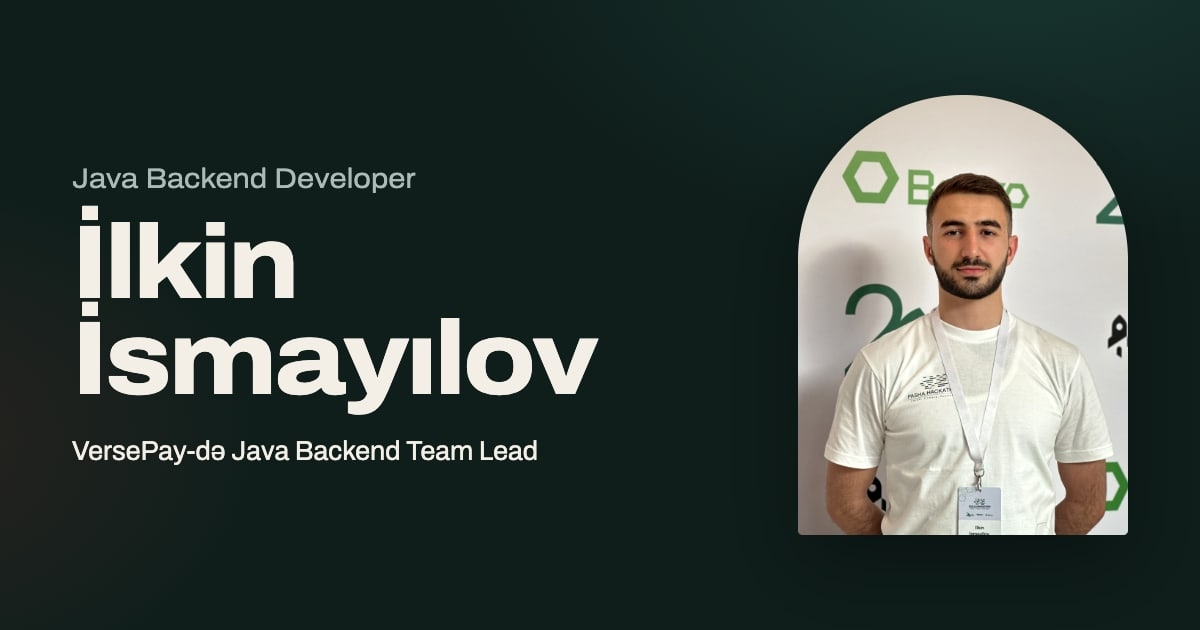
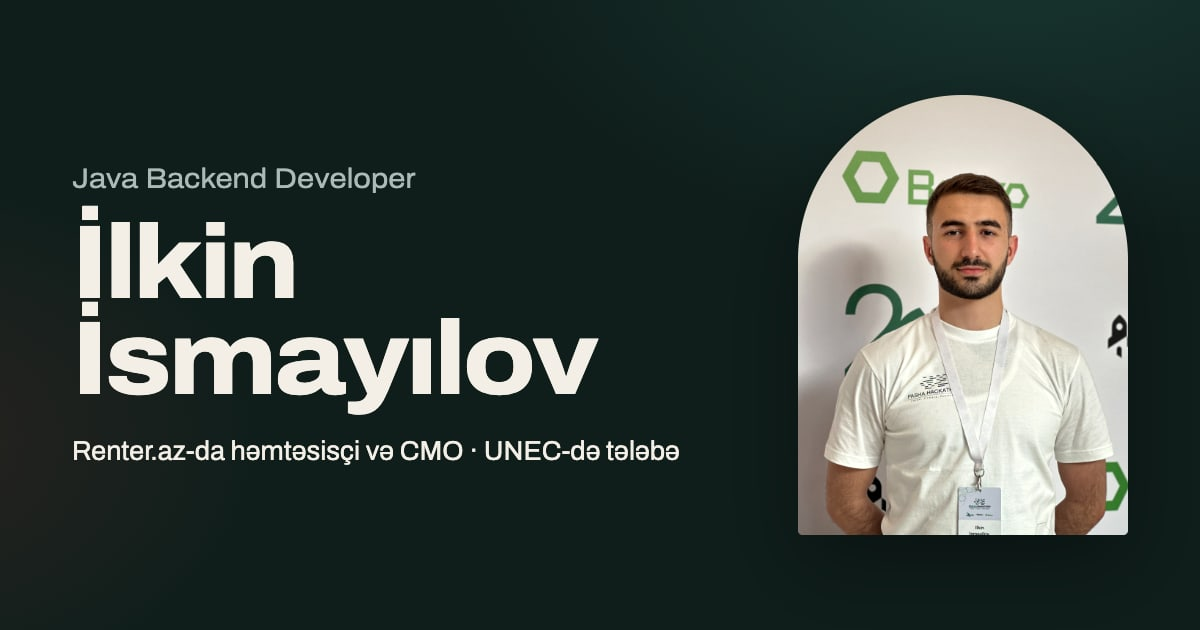
feat(about): new About, Experience and Education content; VersePay is past, Renter.az is Co-founder & CMO
- About: intro (lead + muted paragraph) with a status card (availability, contact link, focus / now / before as <dl>)
- Chapter "Experience": VersePay (past) and Renter.az (current) cards, three numbers for VersePay
- Chapter "Education & achievements": new text and four number cards; "Hackathons" chapter unchanged
- Timeline: Renter.az first (Co-founder & CMO, current, accent dot), VersePay Dec 2025 – Oct 2026;
  the section is now "Career" (was "Experience", which the new chapter uses)
- Hero intro, status board, meta and JSON-LD descriptions no longer show VersePay as the current job; home OG images re-rendered
- Cards are solid surfaces (glass budget unchanged); contrast stops added for the new parts

Changed region(s): [[0.0617, 0.6937, 0.5858, 0.754]]

diff --git a/src/styles/global.css b/src/styles/global.css
@@ -266,12 +266,45 @@ a.row:hover .w-title,a.row:focus-visible .w-title{font-variation-settings:"wdth"
 }
 
 /* ---------- About ---------- */
+.about-intro{display:grid;grid-template-columns:minmax(0,1.4fr) minmax(0,1fr);gap:clamp(2rem,6vw,6rem);align-items:start;margin-bottom:clamp(3rem,8vh,5rem)}
+.about-lead{margin:0 0 1.2rem;max-width:40rem;font-family:var(--display);font-weight:600;font-variation-settings:"wdth" 104;font-size:clamp(1.35rem,1.1rem + 1vw,2rem);line-height:1.3}
+.about-sub{margin:0;max-width:36rem;color:var(--muted);font-size:clamp(1.02rem,1rem + .2vw,1.15rem)}
+.status-card{border-radius:var(--r-m);padding:1rem 1.25rem .5rem;max-width:36rem}
+.avail{padding:1rem 1.1rem;border-radius:var(--r-s);background:var(--accent-soft);border:1px solid var(--glass-border)}
+.avail-title{margin:0;display:flex;align-items:baseline;gap:.6rem;font-weight:650}
+.dot{flex:none;width:.6rem;height:.6rem;border-radius:50%;background:var(--accent)}
+.avail-text{margin:.35rem 0 1rem}
+.status-list{margin:.5rem 0 0}
+.status-list div{display:grid;grid-template-columns:6rem minmax(0,1fr);gap:.2rem 1rem;padding:.75rem 0;border-bottom:1px solid var(--rule)}
+.status-list div:last-child{border-bottom:0}
+.status-list dt{color:var(--muted);font-size:.92rem}
+.status-list dd{margin:0;font-weight:500}
+@media (max-width:820px){.about-intro{grid-template-columns:1fr}}
+@media (max-width:420px){.status-list div{grid-template-columns:1fr}}
 .about-grid{display:grid;grid-template-columns:minmax(0,1.4fr) minmax(0,1fr);gap:clamp(2rem,6vw,6rem);align-items:start}
 .about-text .chapter{margin-bottom:clamp(2.5rem,6vh,4rem)}
 .about-text .chapter p{margin:0 0 1.2rem;max-width:36rem;font-size:clamp(1.08rem,1rem + .35vw,1.25rem)}
 .about-text .chapter p:last-of-type{margin-bottom:0}
 .about-text .chapter h3{margin:0 0 .6rem;font-family:var(--display);font-weight:650;font-size:1.35rem;font-variation-settings:"wdth" 108}
 @media (max-width:820px){.about-grid{grid-template-columns:1fr}}
+/* Chapter cards: solid surfaces (no backdrop-filter), so they stay out of the glass budget */
+.about-text .chapter .ch-sub{margin:-.3rem 0 1.2rem;color:var(--muted);font-size:1rem}
+.roles{list-style:none;margin:0;padding:0;display:grid;gap:1rem;max-width:40rem}
+.role{padding:1.2rem 1.25rem;border-radius:var(--r-m);background:var(--glass-strong);border:1px solid var(--glass-border)}
+.role-head{display:flex;flex-wrap:wrap;justify-content:space-between;align-items:baseline;gap:.4rem 1rem}
+.role h4{margin:0;font-family:var(--display);font-weight:650;font-size:1.15rem;font-variation-settings:"wdth" 104}
+.role-badge{border:1px solid var(--rule);border-radius:999px;padding:.05rem .6rem;color:var(--muted);font-size:.8rem}
+.role-badge.current{background:var(--accent);border-color:var(--accent);color:var(--accent-ink);font-weight:600}
+.about-text .chapter .role p{margin:.6rem 0 0;font-size:1rem}
+.stats{list-style:none;margin:1rem 0 0;padding:0;display:grid;grid-template-columns:repeat(3,minmax(0,1fr));gap:.6rem}
+.stats li{padding:.75rem .85rem;border-radius:var(--r-s);background:var(--glass-hi);border:1px solid var(--glass-border)}
+.stats strong{display:block;color:var(--accent);font-family:var(--display);font-weight:700;font-size:1.5rem;line-height:1.1;font-variation-settings:"wdth" 108}
+.stats span{display:block;margin-top:.2rem;color:var(--muted);font-size:.86rem}
+.stats-4{grid-template-columns:repeat(2,minmax(0,1fr));max-width:40rem;margin-top:1.4rem}
+.stats-4 li{background:var(--glass-strong)}
+.stats-4 strong{font-size:2rem}
+.stats-4 .stat-title{color:var(--text);font-weight:600;font-size:.95rem}
+@media (max-width:560px){.stats,.stats-4{grid-template-columns:1fr}}
 .principles{margin:0;list-style:none;border-radius:var(--r-m);padding:1.5rem 1.5rem .3rem;max-width:36rem}
 .principles li{margin-bottom:1.3rem}
 .principles strong{display:block;font-family:var(--display);font-weight:650;font-size:1.2rem;font-variation-settings:"wdth" 108}
@@ -296,6 +329,9 @@ a.row:hover .w-title,a.row:focus-visible .w-title{font-variation-settings:"wdth"
 .timeline li{position:relative;display:grid;grid-template-columns:11rem minmax(0,1fr);gap:.4rem 2rem;padding:0 0 2.5rem}
 .timeline li::before{content:"";position:absolute;left:-2rem;top:.45rem;width:12px;height:12px;border-radius:50%;background:var(--bg);border:2px solid var(--muted);transition:background .3s,border-color .3s}
 .timeline li.reached::before{background:var(--accent);border-color:var(--accent)}
+/* The current role: accent dot from the start, not only once scrolled past */
+.timeline li.current::before{background:var(--accent);border-color:var(--accent)}
+.timeline li.current .tl-when{color:var(--accent);font-weight:600}
 .tl-when{color:var(--muted)}
 .tl-role{margin:0;font-family:var(--display);font-weight:600;font-size:1.35rem;line-height:1.2}
 .tl-org{color:var(--muted);font-weight:400}
@@ -325,7 +361,8 @@ a.row:hover .w-title,a.row:focus-visible .w-title{font-variation-settings:"wdth"
 .email:hover,.email:focus-visible{background-size:100% 3px}
 .contact-actions{display:flex;flex-wrap:wrap;gap:.75rem 1.5rem;align-items:center;position:relative}
 .btn-accent{background:var(--accent);color:var(--accent-ink);border:0;border-radius:999px;padding:.7rem 1.2rem;font-weight:600}
-.no-js .btn-accent{display:none}
+.a-btn{display:inline-block;text-decoration:none}
+.no-js button.btn-accent{display:none}
 .contact-links{display:flex;flex-wrap:wrap;gap:1.25rem;list-style:none;margin:0;padding:0}
 .colophon{display:flex;flex-wrap:wrap;justify-content:space-between;gap:1rem;color:var(--muted);font-size:.86rem;padding-top:2rem}
 .no-js .js-only{display:none}

diff --git a/src/i18n/ui.ts b/src/i18n/ui.ts
@@ -11,7 +11,7 @@ const en = {
   'nav.label': 'Sections',
   'nav.work': 'Work',
   'nav.about': 'About',
-  'nav.experience': 'Experience',
+  'nav.experience': 'Career',
   'nav.awards': 'Hackathons',
   'nav.contact': 'Contact',
   'search': 'Search',
@@ -64,9 +64,16 @@ const en = {
   'live.cold': 'may take a moment to load',
   'newTab': '(opens in a new tab)',
   'about.title': 'About me',
+  'status.label': 'Work status',
+  'status.contact': 'Get in touch',
+  'status.now': 'Currently',
+  'status.before': 'Before',
+  'role.current': 'current',
+  'role.past': 'past',
+  'role.stats': 'Results',
   'principles.label': 'How I work',
   'skills.title': 'Skills',
-  'exp.title': 'Experience',
+  'exp.title': 'Career',
   'exp.present': 'Present',
   'exp.org': 'at {org}',
   'awards.title': 'Hackathons & awards',
@@ -111,7 +118,7 @@ const az: Record<Key, string> = {
   'nav.label': 'Bölmələr',
   'nav.work': 'İşlər',
   'nav.about': 'Haqqımda',
-  'nav.experience': 'Təcrübə',
+  'nav.experience': 'Karyera',
   'nav.awards': 'Hakatonlar',
   'nav.contact': 'Əlaqə',
   'search': 'Axtar',
@@ -164,9 +171,16 @@ const az: Record<Key, string> = {
   'live.cold': 'açılması bir az vaxt ala bilər',
   'newTab': '(yeni vərəqdə açılır)',
   'about.title': 'Haqqımda',
+  'status.label': 'İş statusu',
+  'status.contact': 'Əlaqə saxla',
+  'status.now': 'Hazırda',
+  'status.before': 'Əvvəl',
+  'role.current': 'hazırda',
+  'role.past': 'keçmiş',
+  'role.stats': 'Nəticələr',
   'principles.label': 'Necə işləyirəm',
   'skills.title': 'Bacarıqlar',
-  'exp.title': 'Təcrübə',
+  'exp.title': 'Karyera',
   'exp.present': 'hazırda',
   'exp.org': '{org}',
   'awards.title': 'Hakatonlar və mükafatlar',

diff --git a/src/content.config.ts b/src/content.config.ts
@@ -39,8 +39,30 @@ const site = defineCollection({
 const about = defineCollection({
   loader: glob({ base: './src/content/about', pattern: '*.md' }),
   schema: z.object({
+      intro: z.strictObject({ lead: z.string(), text: z.string() }),
+      availability: z.strictObject({ title: z.string(), text: z.string() }),
+      status: z.strictObject({ focus: z.string(), now: z.string(), before: z.string() }),
+      // Each chapter has text and/or cards; its photo becomes the page background
       chapters: z
-        .array(z.object({ title: z.string(), text: z.array(z.string()).min(1), background: z.string() }))
+        .array(
+          z.strictObject({
+            title: z.string(),
+            subtitle: z.string().optional(),
+            text: z.array(z.string()).default([]),
+            roles: z
+              .array(
+                z.strictObject({
+                  title: z.string(),
+                  current: z.boolean().default(false),
+                  text: z.string(),
+                  stats: z.array(z.strictObject({ value: z.string(), label: z.string() })).default([]),
+                }),
+              )
+              .default([]),
+            cards: z.array(z.strictObject({ value: z.string(), title: z.string(), text: z.string() })).default([]),
+            background: z.string(),
+          }),
+        )
         .length(3),
       principles: z.array(z.object({ title: z.string(), text: z.string() })).min(1),
       // Enhancement 5: exactly the CV's skill groups and wording; no levels

diff --git a/tests/a11y.spec.ts b/tests/a11y.spec.ts
@@ -69,10 +69,10 @@ test.describe('keyboard only', () => {
     await page.keyboard.press('Escape');
     await expect(page.locator('#workList a[data-case="yolcu"]')).toBeFocused();
 
-    // palette: arrows + Enter run a command (go to Experience)
+    // palette: arrows + Enter run a command (go to Career)
     await page.keyboard.press('Control+k');
     await expect(page.locator('#palInput')).toBeFocused();
-    await page.keyboard.type('experience');
+    await page.keyboard.type('career');
     await page.keyboard.press('Enter');
     await expect(page.locator('#exp-h')).toBeFocused();
 
@@ -116,8 +116,8 @@ test.describe('keyboard only, Azerbaijani', () => {
     await page.keyboard.press('Escape');
     await expect(page.locator('#workList a[data-case="abadland-qarabag"]')).toBeFocused();
     await page.keyboard.press('/');
-    await page.keyboard.type('təcrübə');
-    await expect(page.locator('.pal-opt[aria-selected="true"]')).toContainText('Təcrübə');
+    await page.keyboard.type('karyera');
+    await expect(page.locator('.pal-opt[aria-selected="true"]')).toContainText('Karyera');
     await page.keyboard.press('Enter');
     await expect(page.locator('#exp-h')).toBeFocused();
     await page.keyboard.press('Control+k');

diff --git a/TRANSLATION_REVIEW.md b/TRANSLATION_REVIEW.md
@@ -17,12 +17,15 @@ UI strings live in `src/i18n/ui.ts`; content in `src/content/*/az*`.
 ## Content passages (not in the AZ CV word for word)
 
 - Photo captions: "Qarabağ Hakatonu 2026", "TransportTech Hakatonu 2026" (from the AZ CV event names); the others are names and years.
-- Hero intro: "Erkən mərhələli FinTech startapında 6 backend developerdən ibarət komandaya rəhbərlik edirəm. Spring Boot ilə təhlükəsiz və testlərlə əhatə olunmuş servislər qururam. Orta cavab müddəti 1000 ms-dən 14 ms-ə endi, 75 endpoint üzrə ~95% test əhatəsi var."
-- Meta description, JSON-LD description, hero portrait alt text.
-- Status board: "VersePay-də Java Backend Team Lead", "Ödənişlər, Spring Boot, performans və testlər", "Bank və ya FinTech backend sahəsində ilk korporativ rol axtarıram".
+- Hero intro (2026-10-26, after leaving VersePay): "Java və Spring Boot ilə backend sistemlər qururam. VersePay-də 6 nəfərlik backend komandasına rəhbərlik etdim: orta cavab müddəti 1000 ms-dən 14 ms-ə endi, 75 endpoint üzrə ~95% test əhatəsinə çatdıq." (first sentence is yours; the rest is the old intro in the past tense).
+- Meta description (2026-10-26): "Bakıda Java backend developer. Spring Boot ilə sürətli və testlərlə qorunan API-lər qururam. VersePay-də 6 nəfərlik backend komandasına rəhbərlik etmişəm, bank və FinTech sahəsində Java backend rolları axtarıram."
+- JSON-LD description (2026-10-26): "Java Backend Developer, Renter.az-ın həmtəsisçisi və Kompüter Mühəndisliyi tələbəsi."
+- Hero portrait alt text.
+- Status board (2026-10-26): "Renter.az-da həmtəsisçi və CMO · UNEC-də tələbə" and "Java, Spring Boot, API dizaynı, performans və testlər" (your wording from the new status card), "Bank və FinTech sahəsində Java backend rolları axtarıram" (shortened from your availability text).
 - Hero tag: "orta API cavab müddəti".
 - Work note: "Yeddi layihə, çoxməkanlı restoran sifariş platformasından brauzer oyununa qədər. Dördünün ətraflı təsviri var."
-- About chapter titles: "Nə qururam", "Necə öyrənirəm", "Hakatonlar və daha çoxu", and the chapter texts (built from AZ CV phrases).
+- About (2026-10-26): intro, status card, "Təcrübə" and "Təhsil və nailiyyətlər" chapters, cards and the Renter.az / VersePay timeline texts are **your own wording** (not translated). One sentence added by your decision: "…və 5 komanda layihəsinin tamamlanmasını təmin etmişəm" (AZ CV wording). Chapter "Hakatonlar və daha çoxu" unchanged.
+- UI labels added 2026-10-26: "İş statusu", "Əlaqə saxla", "Hazırda", "Əvvəl", "hazırda", "keçmiş", "Nəticələr"; the timeline section and its nav link are now "Karyera".
 - Principles: "Əvvəl ölç, sonra düzəlt", "Testlər kodla birlikdə gəlir", "Təhlükəsizlik ilk versiyanın bir hissəsidir", "Buraxılış adi iş olsun" and their sentences.
 - Project summaries for Yolçu, AbadLand, Space Shooter, Paygenix (shortened from CV lines); case-study sentences
   "Mənim payım: …", "Platforma milly-front.vercel.app ünvanında işləyir."
@@ -32,7 +35,7 @@ UI strings live in `src/i18n/ui.ts`; content in `src/content/*/az*`.
 
 ## UI strings (all of `az` in `src/i18n/ui.ts`)
 
-Navigation: İşlər, Haqqımda, Təcrübə, Hakatonlar, Əlaqə · Buttons: Axtar, Tema, E-poçtu kopyala, Bağla ·
+Navigation: İşlər, Haqqımda, Karyera, Hakatonlar, Əlaqə · Buttons: Axtar, Tema, E-poçtu kopyala, Bağla ·
 Filters: Hamısı, Backend, Hakatonlar, Frontend · Count: "Bütün 7 layihə göstərilir", "2 hakaton layihəsi göstərilir" ·
 Toasts: "E-poçt kopyalandı", "Açıq tema aktivdir", "Tünd tema aktivdir", "Status işığını tapdın." ·
 Palette: "Bölmə, layihə və ya əməliyyat axtarın", groups "Keçid", "Layihəni aç", "İşləri süz", "Əməliyyatlar" ·

diff --git a/src/content/about/az.md b/src/content/about/az.md
@@ -1,14 +1,37 @@
 ---
+intro:
+  lead: Java və Spring Boot ilə backend sistemlər qururam. Sürətli işləyən API-lər, testlərlə qorunan kod və sonradan böyüməyə hazır arxitektura məni ən çox maraqlandıran mövzulardır.
+  text: Komandaya rəhbərlik etmişəm, indi isə Renter.az-ın həmtəsisçisi kimi məhsula biznes tərəfdən də baxıram. Kodun arxasında hansı problemin dayandığını anlamaq mənim üçün kodun özü qədər vacibdir.
+availability:
+  title: İş və internship təkliflərinə açığam
+  text: "Bank və FinTech sahəsində Java backend rolları axtarıram: tam ştat və ya internship."
+status:
+  focus: Java, Spring Boot, API dizaynı, performans və testlər
+  now: Renter.az-da həmtəsisçi və CMO · UNEC-də tələbə
+  before: VersePay-də Java Backend Team Lead
 chapters:
-  - title: Nə qururam
-    text:
-      - İşimin çoxu interfeysin arxasındadır. Ödəniş linkləri, müştəri loyallığı və marketplace-lər üçün Java və Spring Boot servisləri qururam.
-      - VersePay-də 6 nəfərlik backend komandasına rəhbərlik edirəm, Jira-da sprint planlamasından code review və arxitektura qərarlarına qədər. Renter.az-da, ~100 müştərili canlı avtomobil icarəsi platformasında, həmtəsisçi kimi planlaşdırma, tapşırıq bölgüsü və koordinasiyanı idarə edirəm.
+  - title: Təcrübə
+    subtitle: Komanda, məhsul və rəqəmlər
+    roles:
+      - title: Java Backend Team Lead · VersePay
+        text: "6 nəfərlik backend komandasına rəhbərlik etdim. Ödəniş linkləri, müştəri loyallığı və marketplace servisləri üzərində işlədik: sprint planlamasından code review və arxitektura qərarlarına qədər."
+        stats:
+          - { value: 14 ms, label: "orta cavab müddəti, əvvəl 1000 ms" }
+          - { value: "~95%", label: 75 endpoint üzrə test əhatəsi }
+          - { value: "6", label: developerdən ibarət komanda }
+      - title: Həmtəsisçi və CMO · Renter.az
+        current: true
+        text: ~100 müştərili avtomobil icarəsi platformasının marketinq strategiyasına, brendinə və yeni müştəri cəlbinə cavabdehəm. Bu rol texniki qərarların biznesə necə təsir etdiyini yaxından görməyimə kömək edir.
     background: story-build
-  - title: Necə öyrənirəm
+  - title: Təhsil və nailiyyətlər
+    subtitle: Öyrənmək və öyrətmək
     text:
-      - UNEC-də Kompüter Mühəndisliyi üzrə oxuyuram, ÜOMG 95/100. Ironhack IT SkillSprint Bootcamp-ı tam təqaüdlə, 100/100 ortalama ilə bitirmişəm.
-      - Komandamızın final layihəsi Milly IT SkillSprint-in final Capstone layihəsində Web Development & AI üzrə ümumi qalib oldu. Öyrətmək də məni inkişaf etdirir. CodersAzerbaijan-da 6 junior developerə mentorluq etmişəm və 5 komanda layihəsinin tamamlanmasını təmin etmişəm.
+      - "UNEC-də Kompüter Mühəndisliyi üzrə oxuyuram. Ironhack IT SkillSprint Bootcamp-ı tam təqaüdlə bitirmişəm, komandamızın final layihəsi isə Capstone müsabiqəsində qalib oldu. Öyrətməyi də öyrənməyin bir hissəsi sayıram: CodersAzerbaijan-da junior developerlərə mentorluq etmişəm və 5 komanda layihəsinin tamamlanmasını təmin etmişəm."
+    cards:
+      - { value: 95/100, title: ÜOMG, text: "UNEC, Kompüter Mühəndisliyi" }
+      - { value: 100/100, title: Bootcamp ortalaması, text: "Ironhack IT SkillSprint, tam təqaüd" }
+      - { value: Qalib, title: Final Capstone, text: "Web Development & AI, ümumi birincilik" }
+      - { value: "6", title: junior developer, text: CodersAzerbaijan-da mentorluq }
     background: story-learn
   - title: Hakatonlar və daha çoxu
     text:

diff --git a/src/content/about/en.md b/src/content/about/en.md
@@ -1,14 +1,37 @@
 ---
+intro:
+  lead: I build backend systems with Java and Spring Boot. Fast APIs, code protected by tests and an architecture that is ready to grow are the topics that interest me most.
+  text: I have led a team, and now, as co-founder of Renter.az, I also look at the product from the business side. Understanding the problem behind the code matters to me as much as the code itself.
+availability:
+  title: Open to job and internship offers
+  text: "I'm looking for Java backend roles in banking and FinTech: full-time or internship."
+status:
+  focus: Java, Spring Boot, API design, performance and testing
+  now: Co-founder & CMO at Renter.az · student at UNEC
+  before: Java Backend Team Lead at VersePay
 chapters:
-  - title: What I build
-    text:
-      - Most of my work sits behind the interface. I build Java and Spring Boot services for payment links, customer loyalty and marketplaces.
-      - At VersePay I lead a 6-person backend team, from sprint planning in Jira to code reviews and architecture decisions. At Renter.az, a live vehicle rental marketplace with about 100 customers, I lead product planning and delivery as co-founder.
+  - title: Experience
+    subtitle: Team, product and numbers
+    roles:
+      - title: Java Backend Team Lead · VersePay
+        text: "I led a 6-person backend team. We worked on payment links, customer loyalty and marketplace services: from sprint planning to code reviews and architecture decisions."
+        stats:
+          - { value: 14 ms, label: "average response time, down from 1000 ms" }
+          - { value: "~95%", label: test coverage across 75 endpoints }
+          - { value: "6", label: developers on the team }
+      - title: Co-founder & CMO · Renter.az
+        current: true
+        text: I'm responsible for marketing strategy, brand and customer acquisition at a car rental platform with ~100 customers. The role shows me up close how technical decisions affect the business.
     background: story-build
-  - title: How I learn
+  - title: Education & achievements
+    subtitle: Learning and teaching
     text:
-      - I study Computer Engineering at UNEC, with a GPA of 95/100. I graduated from the Ironhack IT SkillSprint bootcamp with a 100/100 average, on a full scholarship.
-      - Our capstone, Milly, was the overall winner of the IT SkillSprint final Capstone (Web Development & AI). Teaching keeps me sharp too. At CodersAzerbaijan I mentored 6 junior developers and guided 5 team projects to completion.
+      - "I study Computer Engineering at UNEC. I graduated from the Ironhack IT SkillSprint Bootcamp on a full scholarship, and our team's final project won the Capstone competition. I see teaching as part of learning: at CodersAzerbaijan I mentored junior developers and guided 5 team projects to completion."
+    cards:
+      - { value: 95/100, title: GPA, text: "UNEC, Computer Engineering" }
+      - { value: 100/100, title: Bootcamp average, text: "Ironhack IT SkillSprint, full scholarship" }
+      - { value: Winner, title: Final Capstone, text: "Web Development & AI, overall winner" }
+      - { value: "6", title: junior developers, text: mentored at CodersAzerbaijan }
     background: story-learn
   - title: Hackathons and beyond
     text:

diff --git a/CONTENT_REVIEW.md b/CONTENT_REVIEW.md
@@ -78,6 +78,7 @@ All in `src/content/…/{en,az}`:
 - Hero intro, status "Next" line (from the AZ CV goal), meta descriptions, JSON-LD description.
 - Work note: "Seven projects, … Four have a full case study."
 - The three About chapters and the four "How I work" principles.
+- 2026-10-26: the English versions of your new Azerbaijani About texts (intro, status card, Experience and Education chapters, cards), the Renter.az / VersePay timeline entries, hero intro, status board, meta and JSON-LD descriptions are my translations; the timeline section is now "Career"; role title "Co-founder & CMO".
 - Contact note: "Email is the fastest way to reach me." (no reply-time promise, since none is in the CVs).
 - Project one-line summaries and case-study ledes; image alt texts.
 
@@ -89,3 +90,12 @@ All in `src/content/…/{en,az}`:
   palette entry. Export versions without the phone number (and without the referee block) and I will add them,
   with metadata stripped.
 - Photos: only metadata-free copies are in the repository (`npm run photos`, checked by `check-photos`).
+
+## 9. Role changes (2026-10-26, from your answers)
+
+- VersePay: left in **October 2026** (timeline "Dec 2025 – Oct 2026"; the status card says "Before").
+- Renter.az: role is **Co-founder & CMO** (both CVs still say "Co-founder & Project Manager"); responsible for
+  marketing strategy, brand and customer acquisition. No start date (none in the CVs).
+- Availability: open to full-time and internship Java backend roles in banking and FinTech.
+- The CVs in `CV/` still say VersePay "hazırda / Present" and Renter.az "Layihə Meneceri / Project Manager": update
+  them before you send them anywhere, or the site and the CV will disagree.
